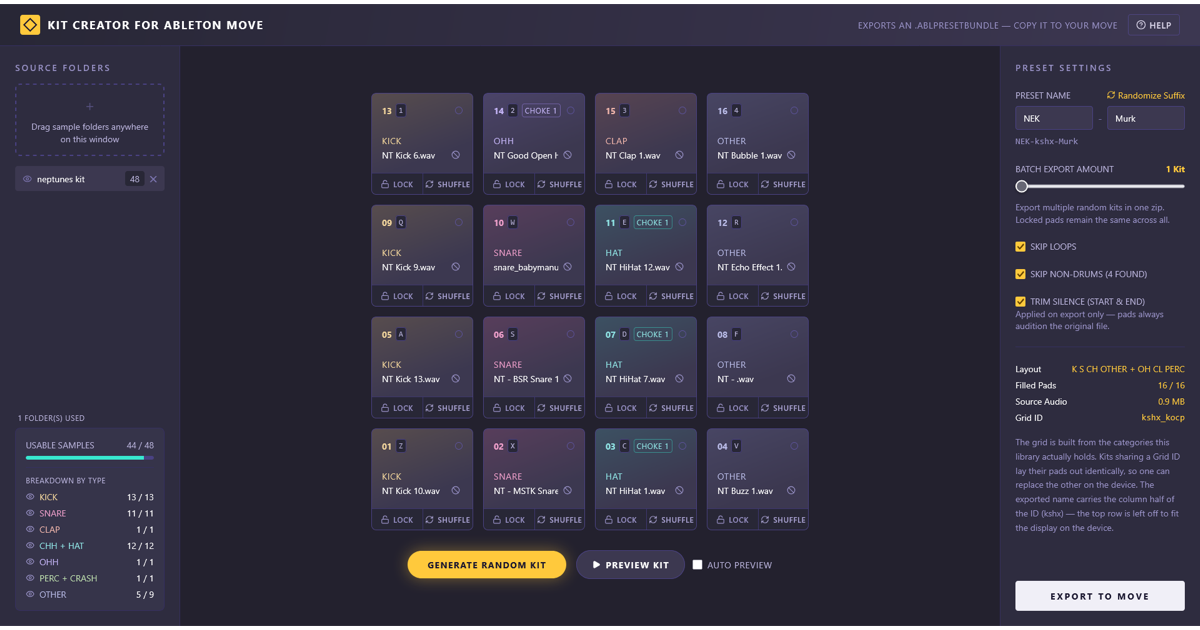
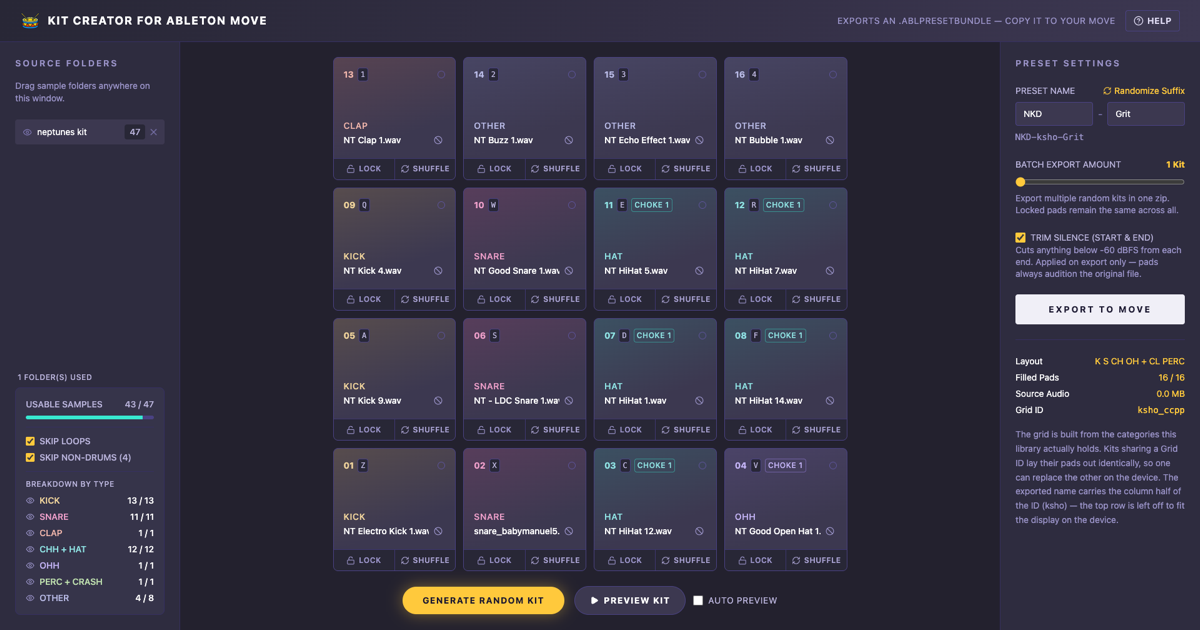
docs: say when the filters apply, and refresh the social card
Help section 5 gains a "When Filters Apply" line: Skip Loops and Skip Non-Drums
change what the next kit is built from, the counts update straight away, and the
kit on screen is left alone. That became true when they stopped re-rolling and
nothing said so.

The Open Graph image predated the whole redesign — old icon, old fixed grid, and
filters still in the export panel. Regenerated from the current app with the dev
seed loaded, so link previews show a full kit rather than sixteen pads reading
"Empty". The seed's "(dev seed)" folder label is stripped for the capture.

AGENTS.md reconciles two entries that were each true alone: pad chips floor at
10px, but under a 130px content width the whole header row is pinned at 11px.

diff --git a/src/App.tsx b/src/App.tsx
@@ -1215,6 +1215,7 @@ export default function App() {
               <section className='space-y-2.5'>
                 <h3 className='text-sm sm:text-base font-bold uppercase tracking-wider text-accent-yellow'>5. Sample Filters & Processing</h3>
                 <ul className='list-disc pl-6 space-y-2 text-text-light'>
+                  <li><strong className='text-text-bright'>When Filters Apply:</strong> Skip Loops and Skip Non-Drums change what the <em>next</em> kit is built from. The counts above them update straight away, but the kit on screen is left alone — nothing is taken off a pad you are listening to. Hit Generate to apply them.</li>
                   <li><strong className='text-text-bright'>Skip Loops:</strong> Leaves out files whose name or folder marks them as a loop — "loop", a bar count, or a tempo like 128bpm. A file that says "break" or "breakbeat" in its own name also counts, but only if it could not be categorised — a snare called "Break Snare" is still a snare, and a pack named "Breaks Vol 2" keeps all of its one-shots.</li>
                   <li><strong className='text-text-bright'>Disable a Type:</strong> Each row of the Breakdown by Type card has an eye icon. Switching a type off leaves every sample of it out of generation, exactly like disabling a source folder, and the grid drops that column. Closed hats take generic hats with them, and percussion takes crashes.</li>
                   <li><strong className='text-text-bright'>Skip Non-Drums:</strong> Leaves out uncategorised files that look like effects, vocals, scratches or melodic material, and anything sitting in an Extras, Imported or Misc folder. Only ever applies to files the app could not categorise, so a sample called "Bass Kick" is unaffected.</li>

diff --git a/AGENTS.md b/AGENTS.md
@@ -635,7 +635,9 @@ Cloudflare Web Analytics is loaded from `index.html` and is the only telemetry. 
   **Do not lower the 12px floor.** An earlier version floored at 9-10px: it measured fine,
   fit without clipping, and was too small to read. The hotkey and choke chips are the one
   exception, floored at 10px — they are labels on a label, and holding them at 12px inside
-  a 100px pad crowds out the sample name beside them.
+  a 100px pad crowds out the sample name beside them. Under a 130px content width the
+  whole header row is pinned at 11px instead, which is what makes the choke badge's word
+  fit; see the badge entry below.
 
   Hiding is the last resort, not the first: captions go under 104px of content width and
   the category line under 88px, because shrinking gets there first.
